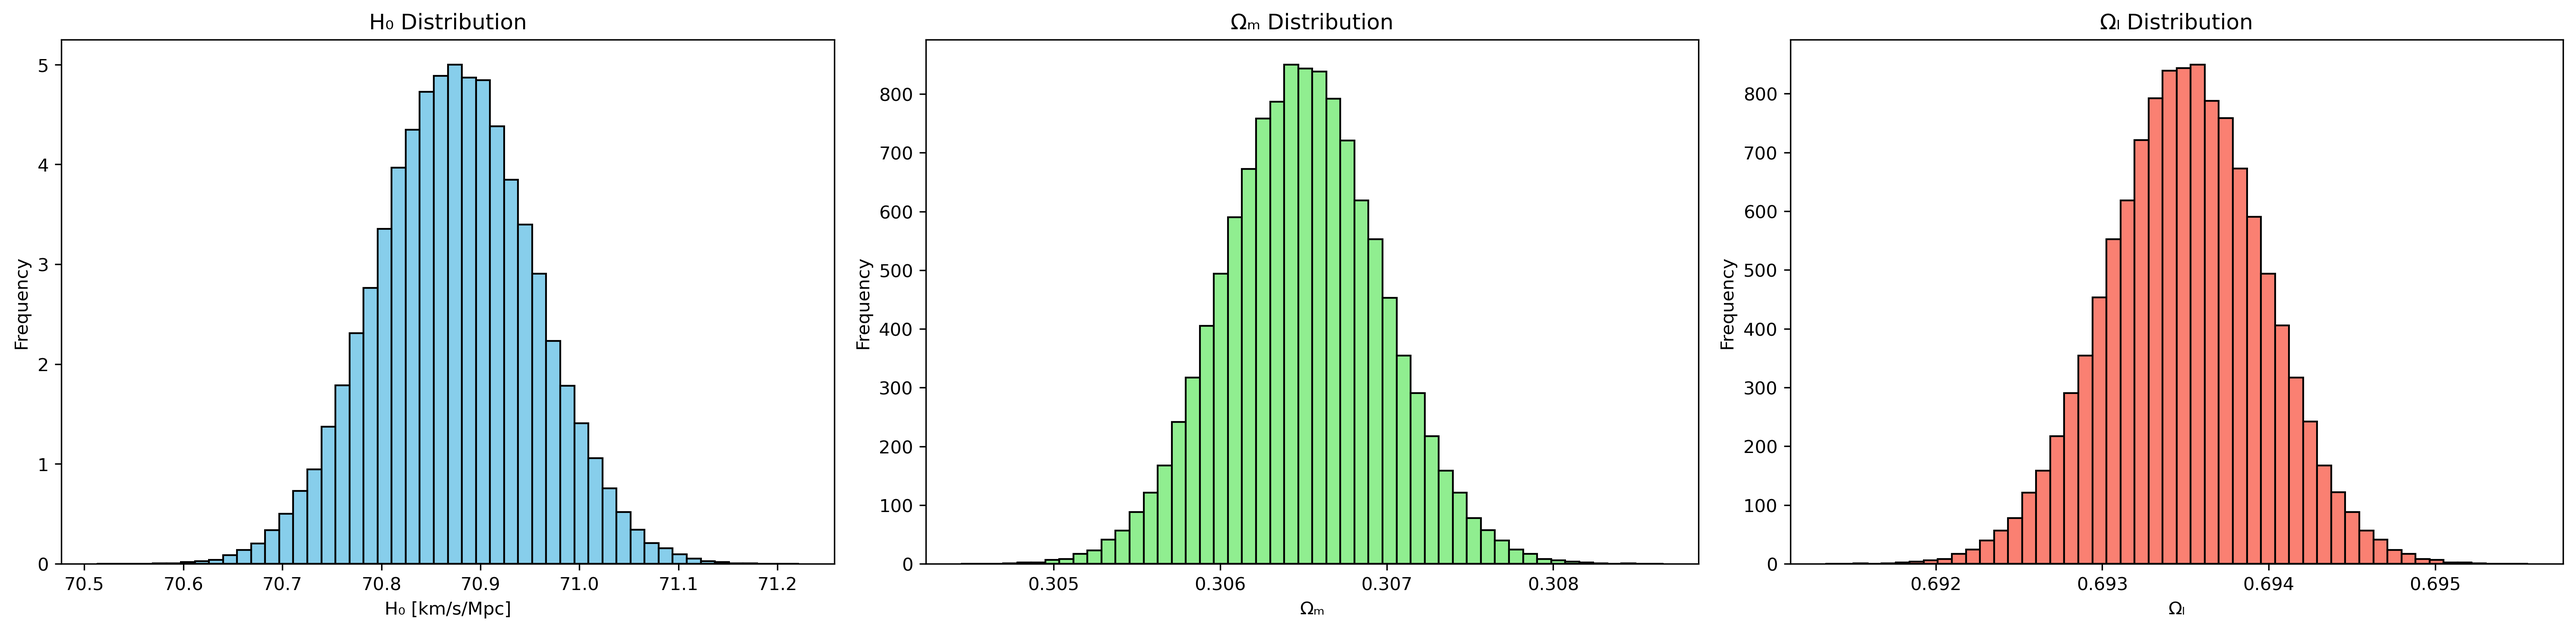
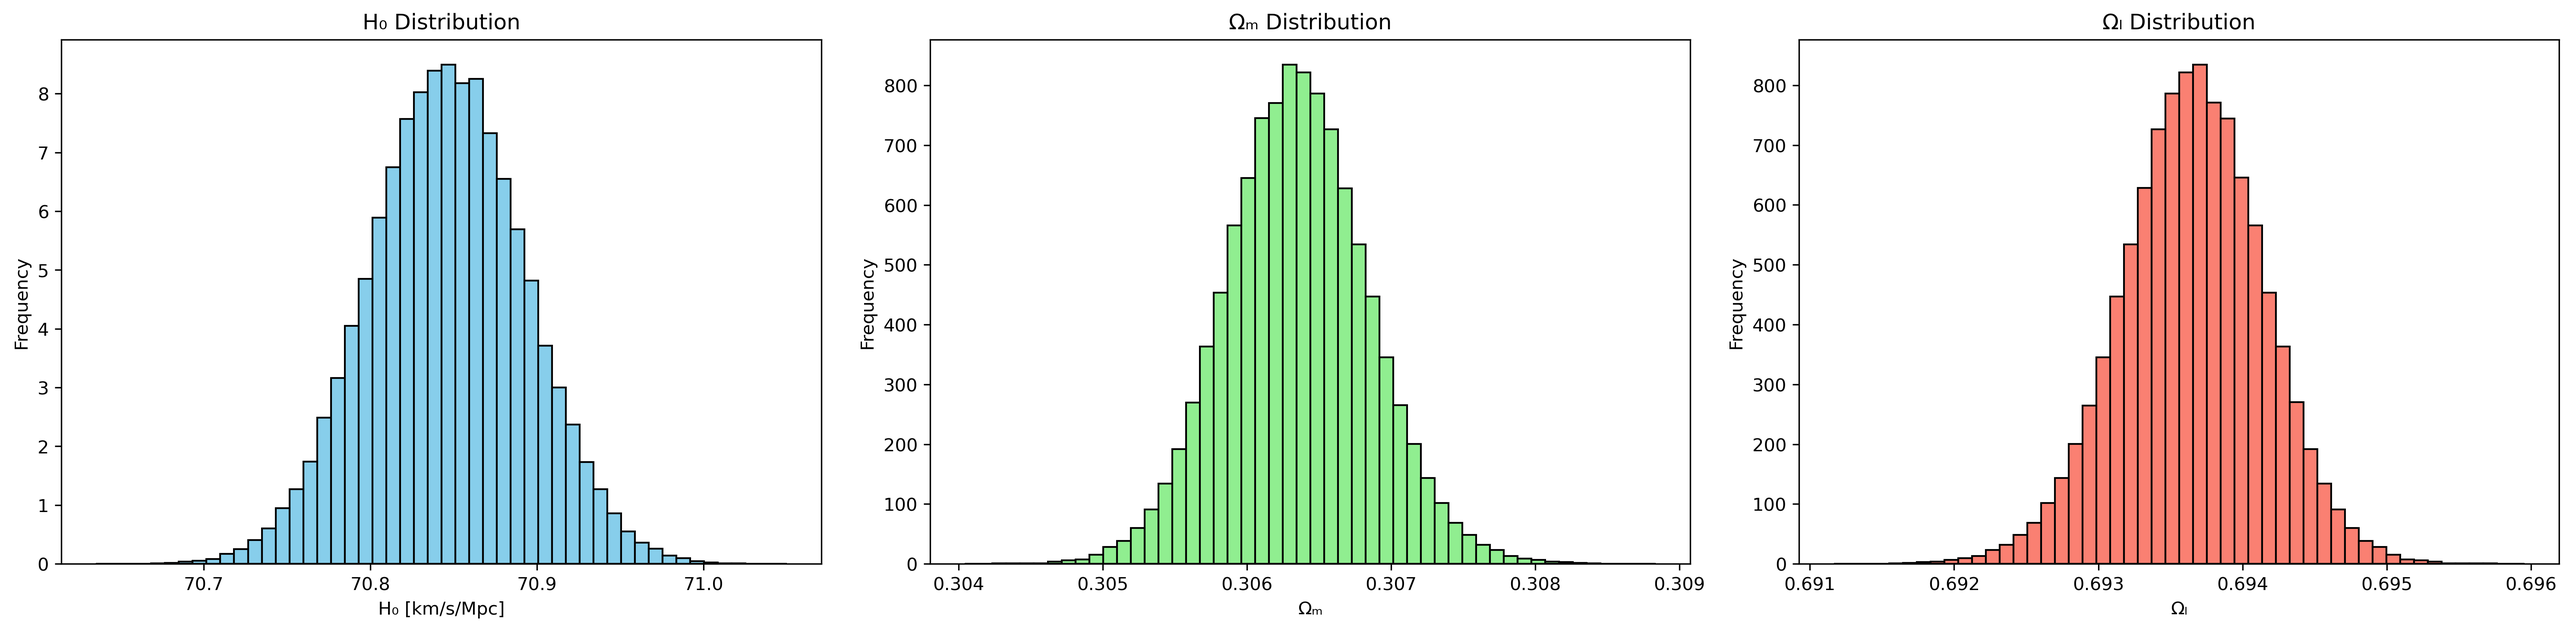
SBI working and imported covariance

diff --git a/Supernova_project/sbi_cosmology.py b/Supernova_project/sbi_cosmology.py
@@ -5,7 +5,7 @@ import torch
 import numpy as np
 import matplotlib.pyplot as plt
 from torch import nn
-from torch.distributions import Independent, Uniform, Normal
+from torch.distributions import Independent, Uniform, Normal, MultivariateNormal
 from sbi import inference as inference
 from sbi.neural_nets.factory import posterior_nn
 from sbi.analysis import pairplot
@@ -23,7 +23,7 @@ import torch
 import numpy as np
 import matplotlib.pyplot as plt
 from torch import nn
-from torch.distributions import Independent, Uniform, Normal
+from torch.distributions import Independent, Uniform, Normal, MultivariateNormal
 from sbi import inference as inference
 from sbi.neural_nets.factory import posterior_nn
 from sbi.analysis import pairplot
@@ -171,9 +171,18 @@ class CosmologicalSimulator:
         
         # Return both z and mu for each simulation
         return torch.stack([self.z.expand(len(params), -1), mu], dim=-1)
+    
+
+def _create_cov_mat(cov_data):
+    n = int(cov_data[0])
+    cov_matrix = cov_data[1:].reshape(n, n)
+    
+    # Make symmetric if needed
+    if not np.allclose(cov_matrix, cov_matrix.T):
+        cov_matrix = (cov_matrix + cov_matrix.T) / 2
+    return cov_matrix
 
 # TODO: torch.distributions for covariance matrix 
-# TODO: corner plot (corner package)
 def apply_curvature_correction(chi, Ok):
     """Apply curvature correction to comoving distance, differentiating between positive and negative Ok
     
@@ -214,8 +223,12 @@ def load_real_data():
     z_obs = torch.as_tensor(z_obs, dtype=torch.float32).clone().detach()
     mu_obs = torch.as_tensor(mu_obs, dtype=torch.float32).clone().detach()
     mu_err = torch.as_tensor(mu_err, dtype=torch.float32).clone().detach()
+
+    # Create covariance matrix
+    cov_data = np.loadtxt(SBIConfig.DATA_PATH + 'Pantheon+SH0ES_STAT+SYS.cov')
+    cov_matrix = _create_cov_mat(cov_data)
     
-    return z_obs, mu_obs, mu_err
+    return z_obs, mu_obs, mu_err, cov_matrix
 
 def plot_training_data(z_obs, mu_obs, mu_err, theta, simulated_data, model_type="flat"):
     """Create visualization of parameter space coverage and model predictions during training"""
@@ -343,12 +356,28 @@ def plot_training_data(z_obs, mu_obs, mu_err, theta, simulated_data, model_type=
     plt.close()
 
 class CosmologySBI:
-    def __init__(self, z_obs, mu_obs, mu_err):
-        """Initialize the SBI trainer with observed data"""
+    def __init__(self, z_obs, mu_obs, mu_err, cov_matrix=None):
+        """Initialize the SBI trainer with observed data and covariance matrix"""
         set_seed(SBIConfig.RANDOM_SEED)  # Set seed in constructor
         self.z_obs = z_obs
         self.mu_obs = mu_obs
         self.mu_err = mu_err
+        
+        # Convert covariance matrix to torch tensor if provided
+        if cov_matrix is not None:
+            self.cov_matrix = torch.tensor(cov_matrix, dtype=torch.float32)
+            # Create likelihood distribution
+            self.likelihood = MultivariateNormal(
+                loc=self.mu_obs,
+                covariance_matrix=self.cov_matrix
+            )
+        else:
+            # Fallback to diagonal covariance matrix using mu_err
+            self.cov_matrix = torch.diag(self.mu_err**2)
+            self.likelihood = MultivariateNormal(
+                loc=self.mu_obs,
+                covariance_matrix=self.cov_matrix
+            )
         
         # Setup simulator with default flat model
         self.simulator = CosmologicalSimulator(z_obs)
@@ -389,7 +418,7 @@ class CosmologySBI:
         )
     
     def train(self):
-        """Train the neural network"""
+        """Train the neural network with covariance-aware likelihood"""
         set_seed(SBIConfig.RANDOM_SEED)  # Set seed before training
         # Setup prior based on current model type
         self.setup_prior()
@@ -397,8 +426,12 @@ class CosmologySBI:
         # Setup embedding network and neural posterior estimator
         embedding_net = self.create_embedding_net()
         
-        # Initialize inference object
-        self.posterior_estimator = inference.SNPE(prior=self.prior)
+        # Initialize inference object with custom likelihood
+        self.posterior_estimator = inference.SNPE(
+            prior=self.prior,
+            density_estimator="maf",  # Using MAF for better performance
+            show_progress_bars=True
+        )
         
         # Generate training data
         print("\nGenerating training data...")
@@ -420,7 +453,6 @@ class CosmologySBI:
         for i in range(len(self.z_obs)//2 - 2, len(self.z_obs)//2 + 3):
             print(f"z = {self.z_obs[i]:.3f}: μ = {x[0,i,1]:.2f}")
 
-        
         # Create training data visualization
         print("\nCreating training data visualization...")
         plot_training_data(self.z_obs, self.mu_obs, self.mu_err, theta, x[:, :, 1], 
@@ -430,10 +462,19 @@ class CosmologySBI:
         x = x[:, :, 1]
         
         print("\nTraining the neural network...")
-        # Train the network
-        density_estimator = self.posterior_estimator.append_simulations(theta, x).train(
-            training_batch_size=SBIConfig.BATCH_SIZE
+        # Train the network with covariance-aware likelihood
+        density_estimator = self.posterior_estimator.append_simulations(
+            theta, x
+        ).train(
+            training_batch_size=SBIConfig.BATCH_SIZE,
+            retrain_from_scratch=False,
+            discard_prior_samples=False,
+            use_combined_loss=True,  # Better convergence with combined loss
+            max_num_epochs=1000,     # Set specific number of epochs
+            stop_after_epochs=50,    # Stop if no improvement after 50 epochs
+            show_train_summary=True
         )
+        
         self.posterior = self.posterior_estimator.build_posterior(density_estimator)
     
     def sample_posterior(self, num_samples=None):
@@ -746,7 +787,7 @@ if __name__ == "__main__":
     set_seed(RANDOM_SEED)  # Set seed at start of main
     
     # Load real data
-    z_obs, mu_obs, mu_err = load_real_data()
+    z_obs, mu_obs, mu_err, cov_matrix = load_real_data()
     print(f"Using {len(z_obs)} data points after filtering")
     
     samples_dict = {}
@@ -755,8 +796,8 @@ if __name__ == "__main__":
     for model_type in ["curved", "flat"]:
         print(f"\nTesting {model_type.capitalize()} ΛCDM model...")
         
-        # Initialize SBI
-        sbi = CosmologySBI(z_obs, mu_obs, mu_err)
+        # Initialize SBI with covariance matrix
+        sbi = CosmologySBI(z_obs, mu_obs, mu_err, cov_matrix)
         sbi.simulator.model_type = model_type
         
         # Train and sample
